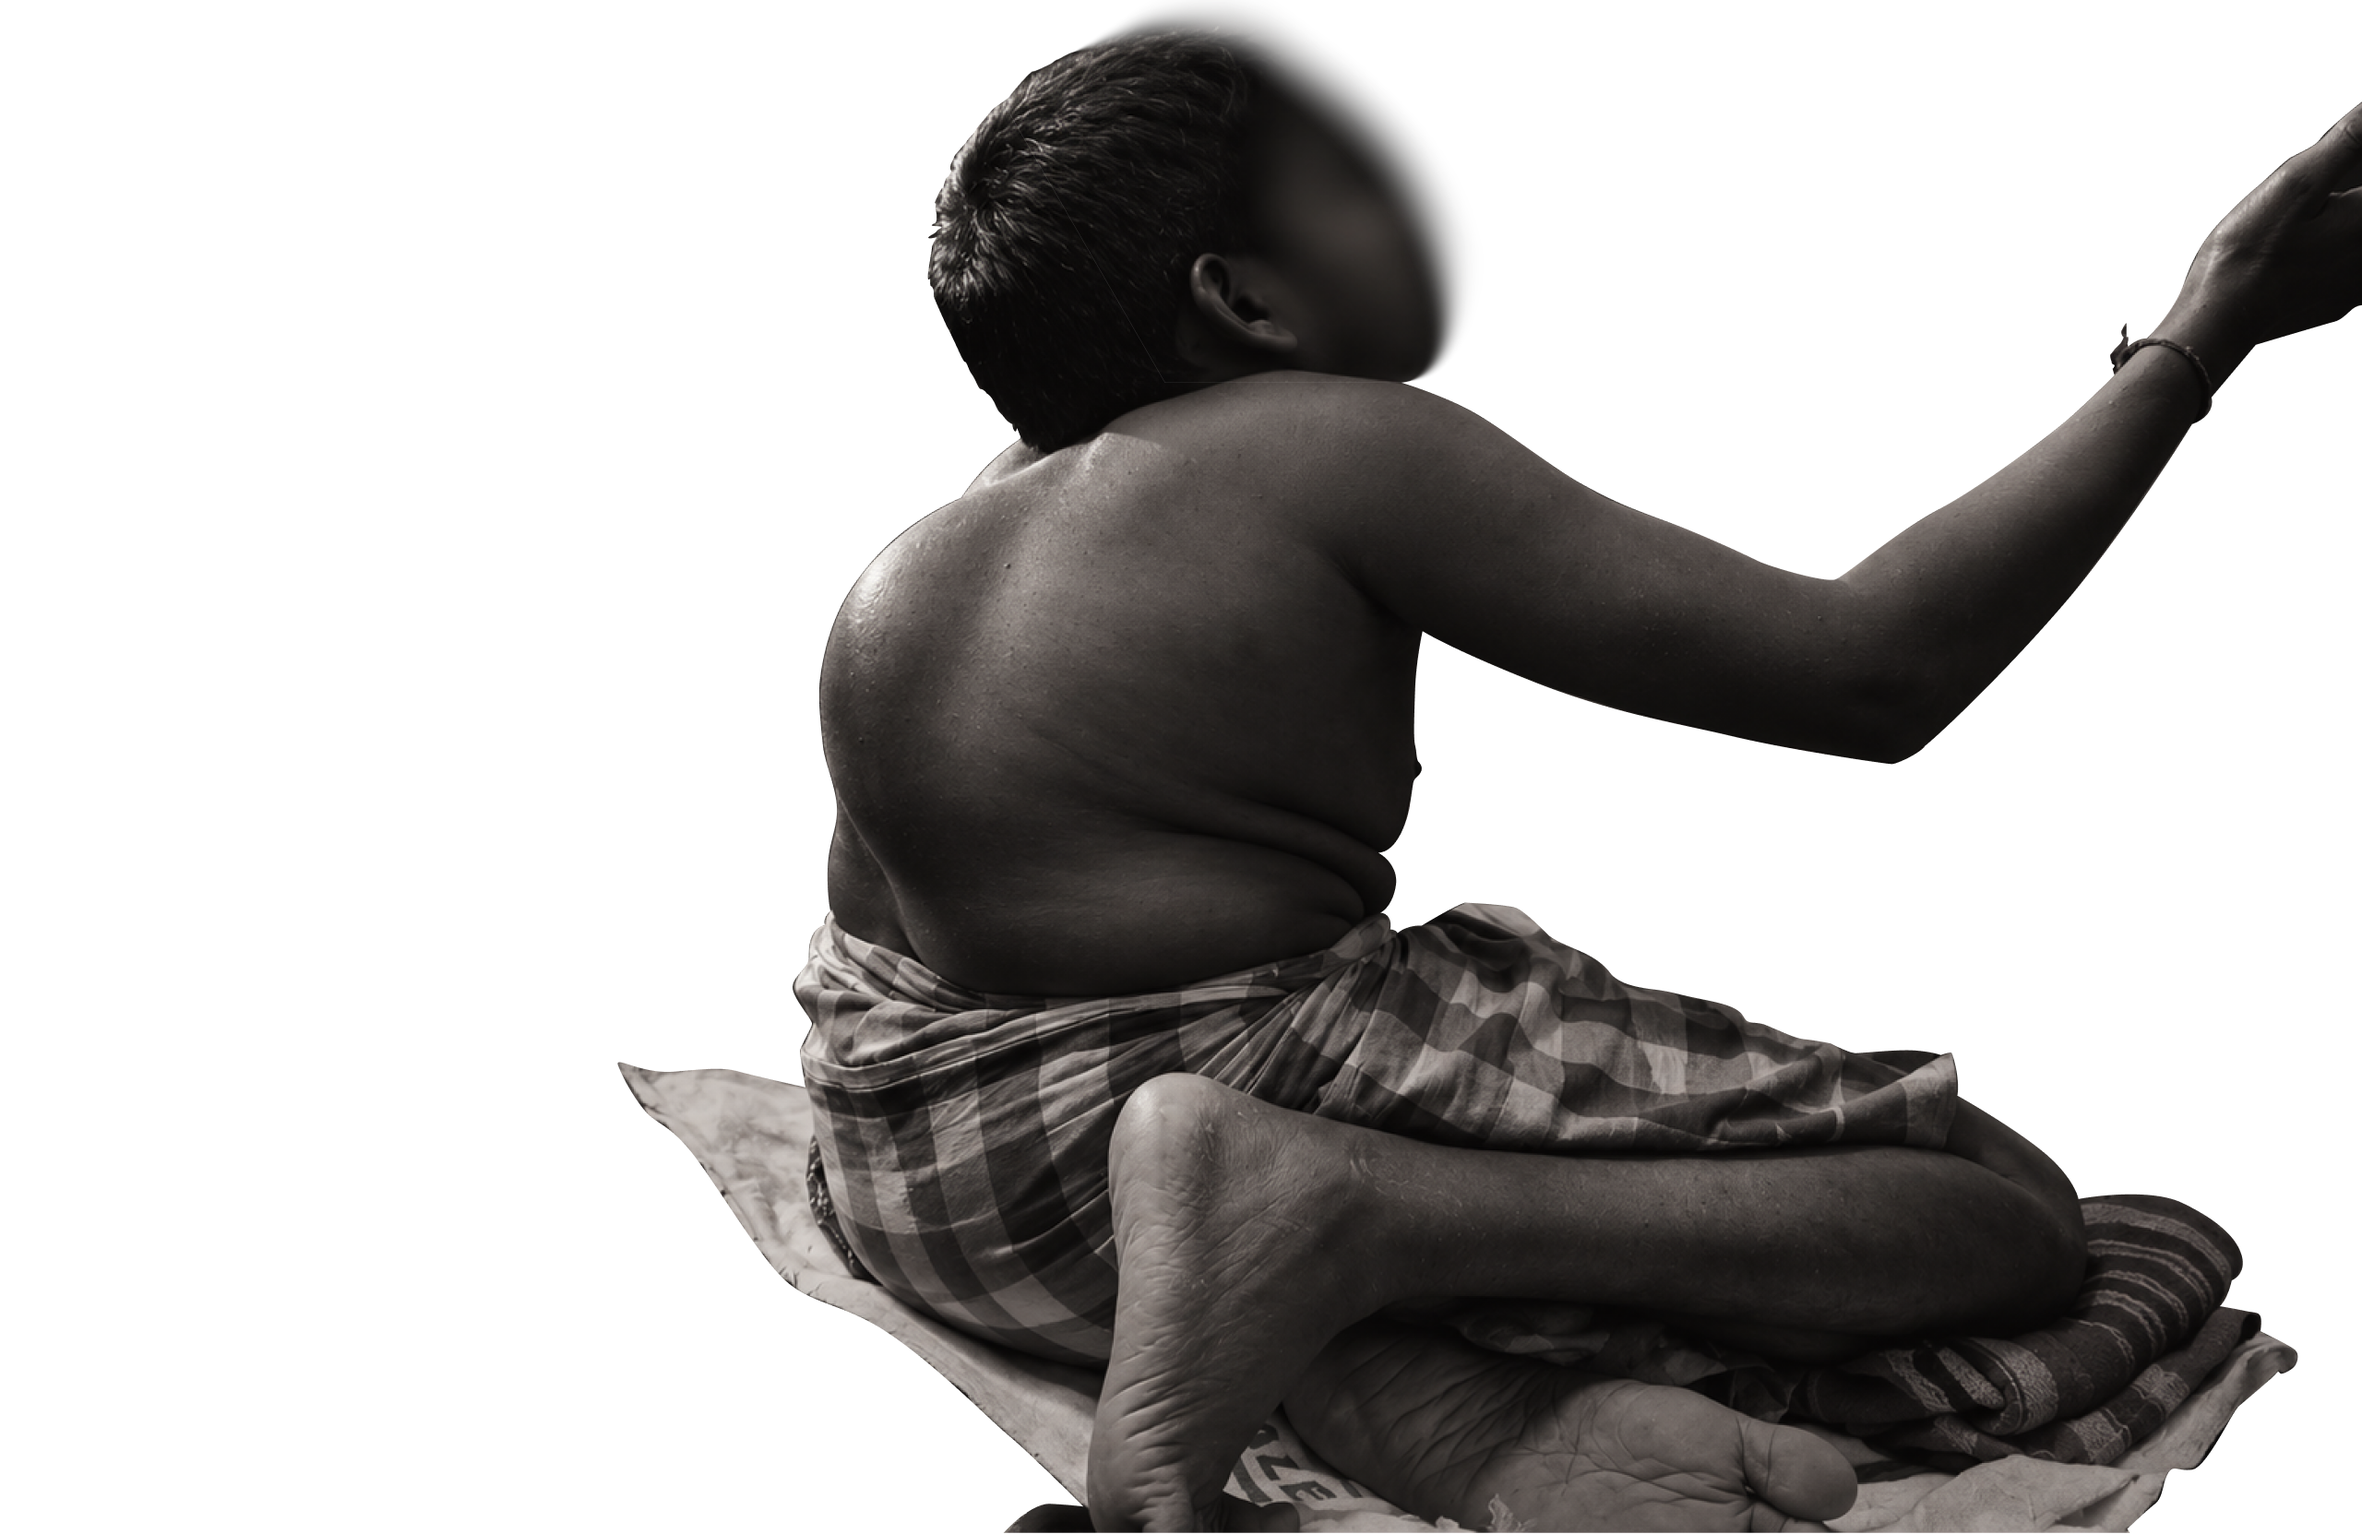
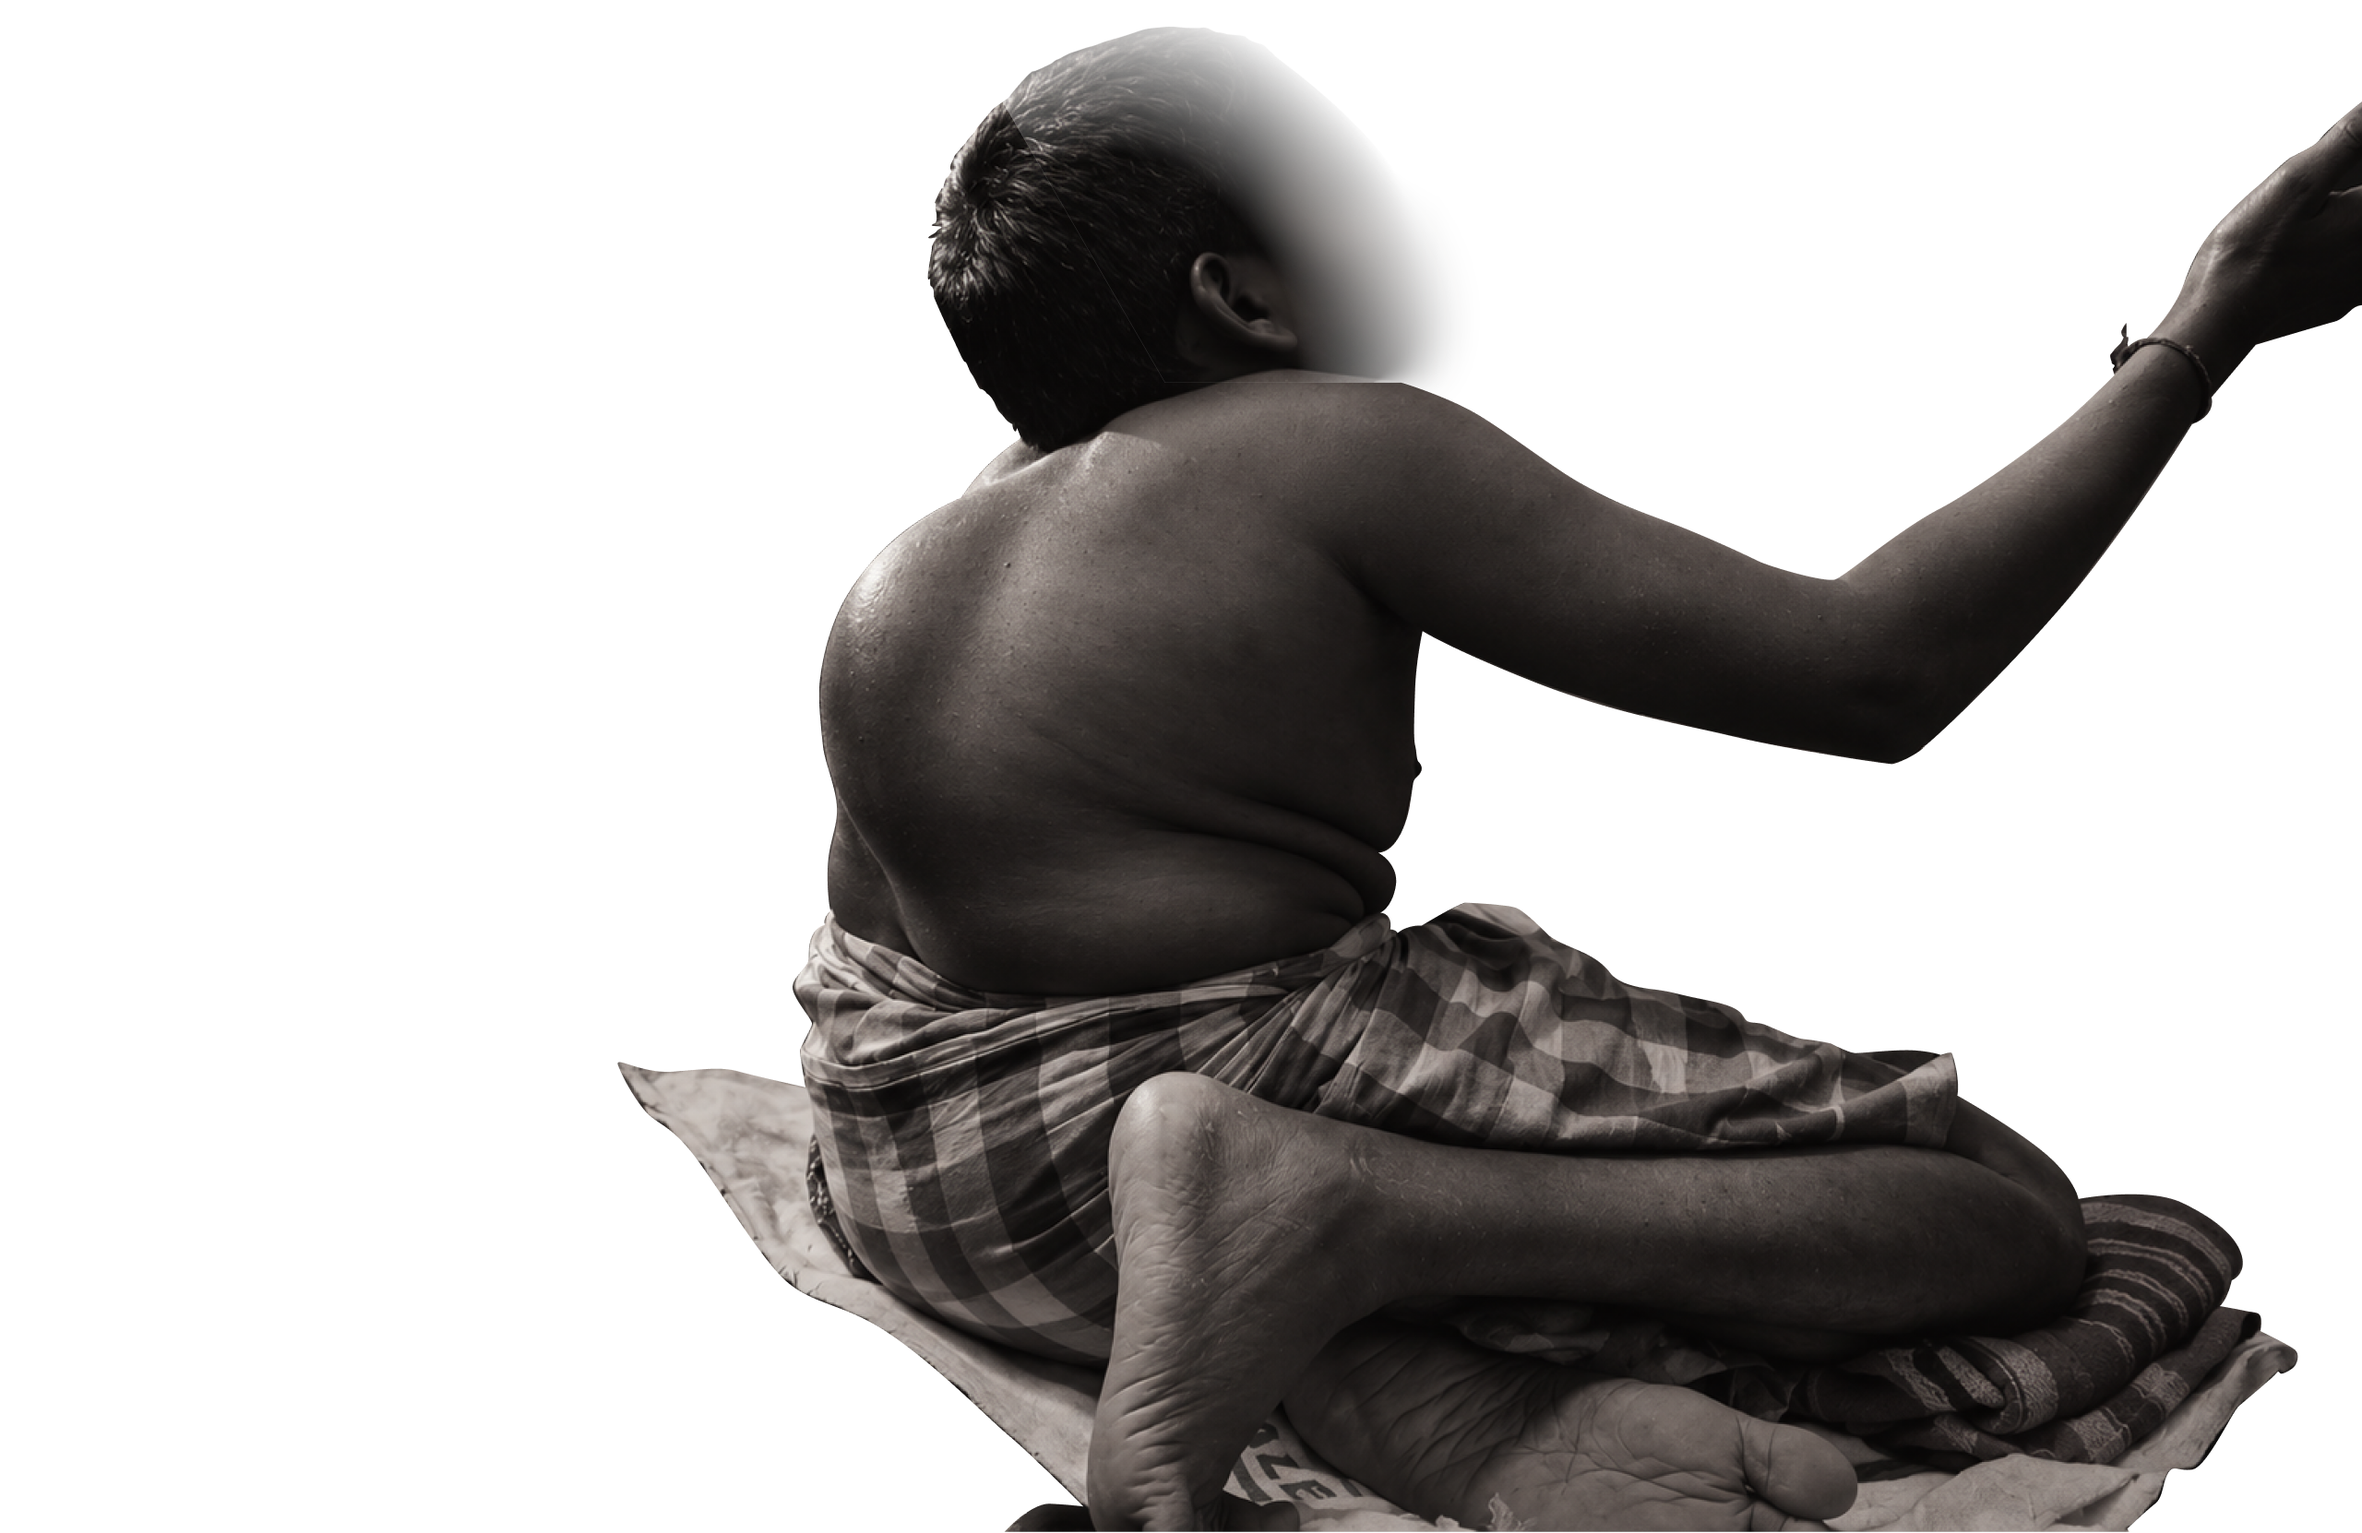
fix: refine mobile hero and journey alignment

Changed region(s): [[0.4062, 0.0, 0.625, 0.2762]]

diff --git a/src/components/Hero.tsx b/src/components/Hero.tsx
@@ -138,11 +138,11 @@ export const Hero: React.FC<HeroProps> = ({
       onClick={handleScrollDown}
       animate={{ y: [0, 5, 0] }}
       transition={{ repeat: Infinity, duration: 1.8, ease: 'easeInOut' }}
-      className={`text-white/60 hover:text-white active:scale-90 transition-all p-1.5 cursor-pointer flex items-center justify-center ${className}`}
+      className={`text-white/40 hover:text-white/75 active:scale-90 transition-all p-1.5 cursor-pointer flex items-center justify-center ${className}`}
       aria-label="Scroll down to reveal cards"
       title="Scroll down to reveal cards"
     >
-      <MaterialIcon name="arrow_cool_down" size={28} className="text-white/65" />
+      <MaterialIcon name="arrow_cool_down" size={28} className="text-white/40" />
     </motion.button>
   )
 
@@ -166,7 +166,7 @@ export const Hero: React.FC<HeroProps> = ({
   /*  PANE 0: Narrative Content (existing)                            */
   /* ================================================================ */
   const blurCommonDesktop = "text-white font-galano-alt font-semibold text-[clamp(20px,2vw,30px)] leading-tight drop-shadow-[0_2px_12px_rgba(0,0,0,0.8)] text-center justify-center"
-  const blurCommonMobile = "font-galano-alt font-semibold text-white text-[clamp(21px,6.2vw,25.5px)] leading-[1.22] text-center drop-shadow-md mx-auto justify-center"
+  const blurCommonMobile = "font-galano-alt font-semibold text-white text-[clamp(24px,6.7vw,28px)] leading-[1.16] text-center drop-shadow-md mx-auto justify-center"
 
   const narrativeLines = [
     { text: "Two decades of commitment & counting", show: showItem1 },
@@ -222,7 +222,7 @@ export const Hero: React.FC<HeroProps> = ({
   const renderMobilePane0 = () => (
     <div className="flex flex-col items-center text-center shrink-0 select-none w-full">
       {/* 4 Narrative Stanzas */}
-      <div className="flex flex-col items-center text-center space-y-4 sm:space-y-4.5 max-w-[310px] sm:max-w-[340px] mx-auto select-none">
+      <div className="flex flex-col items-center text-center space-y-5 sm:space-y-[22px] max-w-[310px] sm:max-w-[340px] mx-auto select-none">
         {narrativeLines.map((line, i) => (
           <div key={i} className="w-full flex items-center justify-center text-center">
             {line.show ? (
@@ -233,7 +233,7 @@ export const Hero: React.FC<HeroProps> = ({
                 className={blurCommonMobile}
               />
             ) : (
-              <div className="invisible font-galano-alt font-semibold text-white text-[clamp(21px,6.2vw,25.5px)] leading-[1.22] text-center mx-auto" aria-hidden="true">
+              <div className="invisible font-galano-alt font-semibold text-white text-[clamp(24px,6.7vw,28px)] leading-[1.16] text-center mx-auto" aria-hidden="true">
                 {line.text}
               </div>
             )}
@@ -242,7 +242,7 @@ export const Hero: React.FC<HeroProps> = ({
       </div>
 
       {/* Scroll Arrow */}
-      <div className="flex flex-col items-center justify-center pt-3.5 sm:pt-4 pb-2 sm:pb-2.5 shrink-0">
+      <div className="flex flex-col items-center justify-center pt-[18px] pb-[18px] shrink-0">
         {renderScrollArrow()}
       </div>
 
@@ -254,16 +254,16 @@ export const Hero: React.FC<HeroProps> = ({
               text="One spine at a time"
               effect="blur" animateBy="words" direction="bottom" trigger="load"
               delay={45} stepDuration={0.26} blur={10} distance={12} color="#ff0000"
-              className="font-galano-alt font-semibold text-[#ff0000] text-[clamp(21.5px,6.2vw,26px)] leading-tight text-center drop-shadow-[0_2px_12px_rgba(255,0,0,0.35)] justify-center"
+              className="font-galano-alt font-semibold text-[#ff0000] text-[clamp(24px,6.7vw,28px)] leading-tight text-center drop-shadow-[0_2px_12px_rgba(255,0,0,0.35)] justify-center"
             />
           ) : (
-            <div className="invisible font-galano-alt font-semibold text-[#ff0000] text-[clamp(21.5px,6.2vw,26px)] leading-tight text-center justify-center" aria-hidden="true">
+            <div className="invisible font-galano-alt font-semibold text-[#ff0000] text-[clamp(24px,6.7vw,28px)] leading-tight text-center justify-center" aria-hidden="true">
               One spine at a time
             </div>
           )}
         </div>
 
-        <div className="pt-3 sm:pt-3.5 flex items-center justify-center min-h-[46px]">
+        <div className="pt-4 flex items-center justify-center min-h-[46px]">
           {showButton ? renderCTAButton({ animate: true, mobile: true }) : <div className="invisible h-10 px-6" aria-hidden="true" />}
         </div>
       </div>
@@ -346,14 +346,14 @@ export const Hero: React.FC<HeroProps> = ({
   const renderMobilePane1 = () => (
     <div className="flex flex-col items-center text-center shrink-0 select-none w-full">
       {/* "Meet Durga" + Poetic lines */}
-      <div className="flex flex-col items-center text-center space-y-4 sm:space-y-[18px] max-w-[310px] sm:max-w-[340px] mx-auto select-none">
+      <div className="flex flex-col items-center text-center space-y-5 sm:space-y-[22px] max-w-[310px] sm:max-w-[340px] mx-auto select-none">
         {/* Meet Durga title */}
         <div className="w-full flex items-center justify-center text-center">
           <BlurText
             text="Meet Durga"
             effect="blur" animateBy="words" direction="bottom" trigger="load"
             delay={50} stepDuration={0.28} blur={10} distance={12}
-            className="font-galano-alt font-semibold text-white text-[clamp(21px,6.2vw,25.5px)] leading-[1.22] text-center drop-shadow-md mx-auto justify-center"
+            className="font-galano-alt font-semibold text-white text-[clamp(24px,6.7vw,28px)] leading-[1.16] text-center drop-shadow-md mx-auto justify-center"
           />
         </div>
 
@@ -364,20 +364,20 @@ export const Hero: React.FC<HeroProps> = ({
               text={line.prefix}
               effect="blur" animateBy="words" direction="bottom" trigger="load"
               delay={40} stepDuration={0.24} blur={8} distance={10}
-              className="font-galano-alt font-semibold text-white/55 text-[clamp(21px,6.2vw,25.5px)] leading-[1.22] text-center drop-shadow-md mx-auto justify-center italic"
+              className="font-galano-alt font-semibold text-white/55 text-[clamp(24px,6.7vw,28px)] leading-[1.16] text-center drop-shadow-md mx-auto justify-center italic"
             />
             <BlurText
               text={line.suffix}
               effect="blur" animateBy="words" direction="bottom" trigger="load"
               delay={40 + (i + 1) * 60} stepDuration={0.24} blur={8} distance={10}
-              className="font-galano-alt font-semibold text-white text-[clamp(21px,6.2vw,25.5px)] leading-[1.22] text-center drop-shadow-md mx-auto justify-center"
+              className="font-galano-alt font-semibold text-white text-[clamp(24px,6.7vw,28px)] leading-[1.16] text-center drop-shadow-md mx-auto justify-center"
             />
           </div>
         ))}
       </div>
 
       {/* Scroll Arrow */}
-      <div className="flex flex-col items-center justify-center pt-4 sm:pt-4.5 pb-2.5 sm:pb-3 shrink-0">
+      <div className="flex flex-col items-center justify-center pt-[18px] pb-[18px] shrink-0">
         {renderScrollArrow()}
       </div>
 
@@ -389,20 +389,20 @@ export const Hero: React.FC<HeroProps> = ({
               text="But..."
               effect="blur" animateBy="words" direction="bottom" trigger="load"
               delay={50} stepDuration={0.26} blur={10} distance={12}
-              className="font-galano-alt font-semibold text-white text-[clamp(21px,6.2vw,25.5px)] leading-[1.22] text-center drop-shadow-md justify-center"
+              className="font-galano-alt font-semibold text-white text-[clamp(24px,6.7vw,28px)] leading-[1.16] text-center drop-shadow-md justify-center"
             />
             <BlurText
               text="as a witness,"
               effect="blur" animateBy="words" direction="bottom" trigger="load"
               delay={100} stepDuration={0.26} blur={10} distance={12}
-              className="font-galano-alt font-semibold text-[#ff0000] text-[clamp(21px,6.2vw,25.5px)] leading-[1.22] text-center drop-shadow-[0_2px_12px_rgba(255,0,0,0.35)] justify-center"
+              className="font-galano-alt font-semibold text-[#ff0000] text-[clamp(24px,6.7vw,28px)] leading-[1.16] text-center drop-shadow-[0_2px_12px_rgba(255,0,0,0.35)] justify-center"
             />
           </div>
           <BlurText
             text="he blesses the world!"
             effect="blur" animateBy="words" direction="bottom" trigger="load"
             delay={160} stepDuration={0.26} blur={10} distance={12}
-            className="font-galano-alt font-semibold text-white text-[clamp(21px,6.2vw,25.5px)] leading-[1.22] text-center drop-shadow-md justify-center"
+            className="font-galano-alt font-semibold text-white text-[clamp(24px,6.7vw,28px)] leading-[1.16] text-center drop-shadow-md justify-center"
           />
         </div>
 

diff --git a/src/components/WelcomeJourney.tsx b/src/components/WelcomeJourney.tsx
@@ -1,4 +1,4 @@
-import React, { useState, useEffect, useCallback, useRef } from 'react'
+import React, { useState, useEffect, useLayoutEffect, useCallback, useRef } from 'react'
 import { motion, AnimatePresence, type Variants } from 'framer-motion'
 import { SrfLogo, MaterialIcon } from './icons'
 import { BlurText } from './BlurText'
@@ -44,7 +44,10 @@ export const WelcomeJourney: React.FC<WelcomeJourneyProps> = ({
   // Current journey frame: 1 and 2, then 3 for landing transition
   const [frame, setFrame] = useState<number>(initialFrame)
 
-  useEffect(() => {
+  // Keep the parent background layer in the same frame before paint. Its transform
+  // mirrors the phone cutout's frame shift, so an effect after paint can briefly
+  // leave the two copies of the boy at different vertical positions on reverse scroll.
+  useLayoutEffect(() => {
     onFrameChange?.(frame)
   }, [frame, onFrameChange])
 

diff --git a/src/App.tsx b/src/App.tsx
@@ -248,7 +248,7 @@ export const App: React.FC = () => {
                   <img
                     src={`${import.meta.env.BASE_URL}banners/Solitary%20Boy%20Amid%20the%20Moving%20Crowd%201.jpg`}
                     alt="Solitary Boy Amid the Moving Crowd"
-                    className="w-full h-full object-cover object-[48%_25%] md:object-center select-none"
+                    className="home-content-background-image w-full h-full object-cover object-[48%_25%] md:object-center select-none"
                   />
                 </picture>
               </motion.div>

diff --git a/src/index.css b/src/index.css
@@ -203,6 +203,12 @@ body::-webkit-scrollbar,
 
 /* Mobile Welcome Journey Frame 1 & 2 background elevation */
 @media (max-width: 767px) {
+  /* Raise the homepage content background focal point on phones. The bottom
+     gradient already fades this cropped area into the page background. */
+  .home-content-background-image {
+    transform: translate3d(0, -12%, 0);
+  }
+
   .journey-frame-1-shift {
     transform: translateY(-10vh) !important;
   }
